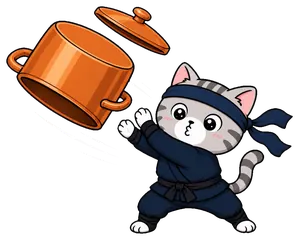
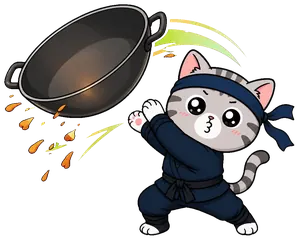
介面小修一批：狀態列（忍具格分色＋空格看得見＋宗師鎖格、代碼改小按鈕）、橘貓老闆面向右、三花貓文案、甩鍋術換炒鍋、地圖走過的路加亮
- 狀態列與戰鬥忍具列：秘寶維持羊皮紙暖色、忍具改藍底；空格淡藍亮虛線；至少畫 3 格，宗師起少的那格畫 🔒（提示說明），忍具袋／九命鈴多的格照實畫
- 本局代碼：13 位數字改成「📋 代碼」小按鈕（滑上去看完整代碼、點一下複製；剪貼簿不能用時把整串印出來讓人選），結算畫面照舊整串；不再當「擠不下就縮」的安全閥
- 橘貓老闆立繪用獨立 scale 屬性左右翻面，面向貨架與對白
- 賣藥的三花貓：正文「藥水瓶跟忍具」、選項「買兩個隨機忍具（花費 25 條小魚乾）」「買祖傳的藥水（最大生命值 +12，花費 60 條小魚乾）」、結果句講「忍具」
- 甩鍋術牌面：銅湯鍋改黑鐵炒鍋（Codex 重畫，舊圖備份 .舊銅鍋）；只換這一張，產線整批重編的其他 196 張已還原（WebP 編碼不穩定，不能整批進倉）
- 地圖：走過的路 3→5.5 像素、透明度 .78→.97、光暈加強；打過的格子 .55→.72（使用者回報「走過的路不會亮」；程式與存檔都查過沒壞，是太淡）
- 提示框附註跳過「保留」（守護符文案撞牌面關鍵字）
- 唯讀稽核 docs/審查報告/程式稽核_2026-09-06_介面小修.md：高 0 中 3 低 3，中全修（含戰鬥忍具列同步鎖格）；地圖加亮是稽核後加的

diff --git a/src/ui/hud.ts b/src/ui/hud.ts
@@ -75,15 +75,19 @@ export function renderHud(app: App, root: HTMLElement, fishDelta = 0): HTMLEleme
   }
 
   const potions = el('div', { class: 'hud-potions' });
-  for (let i = 0; i < potionCapacity(run); i++) {   // 格數隨難度與忍具袋變
-    const id = run.potions[i];
+  // 格數隨難度與忍具袋變（見習～高手 3、宗師起 2、忍具袋 +1、九命鈴 +2）。畫面上至少畫 3 格：
+  // 宗師起少掉的那一格畫成鎖住的格子而不是消失，格數才不會一局兩格一局三格（使用者 2026-09-06）
+  const cap = potionCapacity(run);
+  for (let i = 0; i < Math.max(cap, 3); i++) {
+    const locked = i >= cap;
+    const id = locked ? undefined : run.potions[i];
     const p = id ? potionById[id] : undefined;
-    const slot = el('div', { class: `hud-potion${p ? '' : ' empty'}` });
-    // 提示只掛在有東西的格子上：空格掛了也只會跳出一個沒內容的框，反而讓人以為那格有東西。
+    const slot = el('div', { class: `hud-potion${p ? '' : locked ? ' locked' : ' empty'}` }, locked ? '🔒' : '');
+    // 提示只掛在有東西或鎖住的格子上：空格掛了也只會跳出一個沒內容的框，反而讓人以為那格有東西。
     if (id && p) {
       slot.append(el('img', { src: artUrl('icons', p.art), alt: p.name }));
       attachTextTooltip(slot, p.name, p.text);
-    }
+    } else if (locked) attachTextTooltip(slot, '這一格鎖住了', '宗師以上只能帶兩支忍具；拿到忍具袋或九命鈴會多出格子。');
     potions.append(slot);
   }
 
@@ -148,19 +152,24 @@ function diffBadge(run: RunState): HTMLElement | string {
   return node;
 }
 
-export function seedTag(seed: string): HTMLElement {
-  const node = el('button', { class: 'hud-seed seed-copy' }, `本局代碼 ${seed} ⧉`);
-  node.title = '點一下複製代碼';
+export function seedTag(seed: string, full = false): HTMLElement {
+  // 十三位數字整條印在狀態列太佔位（使用者 2026-09-06）：狀態列做成跟「圖鑑」一樣的小按鈕，
+  // 完整代碼滑上去看、點一下複製；結算畫面（full）空間夠，照舊整串印出來
+  const label = full ? `本局代碼 ${seed} ⧉` : '📋 代碼';
+  const node = el('button', { class: full ? 'hud-seed seed-copy' : 'btn small hud-seed seed-copy' }, label);
+  attachTextTooltip(node, `本局代碼 ${seed}`, '點一下複製，貼到標題畫面的「本局代碼」就能重玩同一局。');
   node.addEventListener('click', () => {
     const done = (): void => {
       play('click');
       node.textContent = '已複製！';
-      window.setTimeout(() => { node.textContent = `本局代碼 ${seed} ⧉`; }, 1200);
+      window.setTimeout(() => { node.textContent = label; }, 1200);
     };
+    // 剪貼簿不能用時把整串代碼印出來讓人自己選：這時候按鈕上本來只有「代碼」兩個字
+    const fallback = (): void => { node.textContent = seed; selectFallback(node); };
     try {
-      void navigator.clipboard.writeText(seed).then(done, () => selectFallback(node));
+      void navigator.clipboard.writeText(seed).then(done, fallback);
     } catch {
-      selectFallback(node);
+      fallback();
     }
   });
   return node;

diff --git a/src/ui/styles/components.css b/src/ui/styles/components.css
@@ -95,14 +95,28 @@
 .hud-potion {
   width: 32px;
   height: 32px;
-  border-radius: 6px;
+  border-radius: 10px;
+  /* 忍具格跟秘寶格底色分開（使用者 2026-09-06：兩種東西同一個底色分不出來）：
+     秘寶維持羊皮紙暖色，忍具改冷色藍底＋深藍框，圖示照樣清楚 */
+  background: linear-gradient(#eef4ff, #cad9f2);
+  border: 1.5px solid #2b3f66;
+  box-shadow: inset 0 -2px 3px #2b3f6640, inset 0 1px 0 #fff, 0 1px 0 #ffffff26;
 }
-/* 空格子維持深色虛線：「這格是空的」跟「這格有東西」要一眼分得開 */
+/* 空格子：淡藍底＋亮虛線，在深色狀態列上看得到（原本深底暗虛線幾乎隱形，使用者 2026-09-06）；
+   「這格是空的」跟「這格有東西」仍一眼分得開 */
 .hud-potion.empty {
-  background: #00000047;
-  border: 1px dashed rgba(255, 255, 255, .45);
-  box-shadow: inset 0 1px 3px #0000008a;
+  background: #cad9f24d;
+  border: 1.5px dashed rgba(220, 232, 255, .85);
+  box-shadow: inset 0 1px 3px #00000066;
   box-sizing: border-box;
+}
+/* 鎖住的格子（宗師以上少一格）：跟空格同一個框，中間一個鎖頭，不讓格數忽多忽少 */
+.hud-potion.locked {
+  background: #00000059;
+  border: 1.5px dashed rgba(220, 232, 255, .45);
+  box-sizing: border-box;
+  display: flex; align-items: center; justify-content: center;
+  font-size: 15px; line-height: 1; opacity: .8;
 }
 .hud-potion.usable { cursor: pointer; }
 /* 音效開關固定在最右邊；本局代碼原本靠 margin-left:auto 推到底，
@@ -144,6 +158,9 @@
 /* 小魚乾的數字也給描邊，壓在木紋上才讀得清楚 */
 .hud-fish span { text-shadow: 0 1px 2px #000000a6; }
 .hud-seed { text-shadow: 0 1px 2px #00000080; }
+/* 狀態列上的代碼按鈕：跟「圖鑑」同一款小按鈕，不再是一行淡字 */
+/* flex-shrink 0：它不再是「擠不下就縮」的安全閥（overflow: visible 會讓 ellipsis 失效，縮了反而蓋到旁邊；稽核 2026-09-06 介面 中-3） */
+.hud .hud-seed.btn { opacity: 1; font-size: inherit; text-shadow: none; overflow: visible; flex: 0 0 auto; }
 
 /* ===== 疊層視窗（牌組檢視、挑牌） ===== */
 .modal-overlay {

diff --git a/src/ui/screens/combat.ts b/src/ui/screens/combat.ts
@@ -613,11 +613,15 @@ registerScreen('combat', (app, root, props) => {
     attachTooltip(energy, '飯糰');
 
     const potions = el('div', { class: 'potions' });
-    for (let i = 0; i < potionCapacity(run); i++) {   // 格數隨難度與忍具袋變
-      const id = cs.potions[i];
+    // 格數隨難度與忍具袋變；跟狀態列同一套：至少畫 3 格，宗師起少掉的那格畫成鎖住（稽核 2026-09-06 介面 中-2）
+    const cap = potionCapacity(run);
+    for (let i = 0; i < Math.max(cap, 3); i++) {
+      const locked = i >= cap;
+      const id = locked ? undefined : cs.potions[i];
       const def = id ? potionById[id] : undefined;
-      const slot = el('div', { class: `potion${def ? '' : ' empty'}` });
-      // 提示只掛在有忍具的格子上：空格跳出一個沒內容的框，反而讓人以為那格有東西。
+      const slot = el('div', { class: `potion${def ? '' : locked ? ' locked' : ' empty'}` }, locked ? '🔒' : '');
+      if (locked) attachTextTooltip(slot, '這一格鎖住了', '宗師以上只能帶兩支忍具；拿到忍具袋或九命鈴會多出格子。');
+      // 提示只掛在有忍具或鎖住的格子上：空格跳出一個沒內容的框，反而讓人以為那格有東西。
       if (id && def) {
         const url = artUrl('icons', def.art);
         slot.append(isFallback(url) ? el('b', {}, def.name) : el('img', { src: url, alt: def.name }));

diff --git a/src/ui/styles/map.css b/src/ui/styles/map.css
@@ -68,9 +68,11 @@
      32 段路徑每一幀都要重新描一次；方向感改由腳印依序亮起來表達，
      那個動的是 opacity，走合成器，便宜很多，也比較像真的有人在走。 */
 }
+/* 走過的路：加粗、加亮（使用者 2026-09-06：「走過的路不會亮」——3 像素、七成八透明的線在深色背景上太淡） */
 .map-edges path.walked {
-  stroke: rgba(255, 224, 150, .78);
-  filter: drop-shadow(0 0 4px rgba(255, 211, 92, .5));
+  stroke: rgba(255, 230, 160, .97);
+  stroke-width: 5.5;
+  filter: drop-shadow(0 0 5px rgba(255, 211, 92, .85)) drop-shadow(0 0 12px rgba(255, 190, 70, .45));
 }
 /* 腳印一顆一顆依序亮，像有人正踩著這條路往上走。
    每顆的起跑時間差 0.16 秒（在 map.ts 用負的 animation-delay 設），
@@ -123,7 +125,7 @@
 }
 .map-node.past { opacity: .3; filter: grayscale(.75) drop-shadow(0 0 2px rgba(0, 0, 0, .8)); }
 /* 打完的格子（足跡上）：比其他舊樓層清楚一點，右上角蓋一顆勾勾章＝「這格辦完了」 */
-.map-node.cleared { opacity: .55; filter: grayscale(.35) drop-shadow(0 0 2px rgba(0, 0, 0, .8)); }
+.map-node.cleared { opacity: .72; filter: grayscale(.2) drop-shadow(0 0 3px rgba(255, 211, 92, .45)); }   /* .55→.72：打過的格子要看得出來（使用者 2026-09-06） */
 .map-node.cleared::after {
   content: '✓';
   position: absolute;

diff --git a/src/content/events.ts b/src/content/events.ts
@@ -135,10 +135,10 @@ export const events: EventDef[] = [
     ] },
 
   { id: 'medicine_cat', title: '賣藥的三花貓',
-    text: '一隻三花貓在牆邊擺了個小攤，攤上排著幾個瓶子。「不保證有效，但一定有反應。」',
+    text: '一隻三花貓在牆邊擺了個小攤，攤上排著幾個藥水瓶跟忍具。「不保證有效，但一定有反應。」',
     choices: [
-      { label: '買一瓶（25 條小魚乾，拿兩支忍具）', costFish: 25, outcome: [{ kind: 'potions', n: 2 }], result: '三花貓收了錢，塞了兩個瓶子給球球。' },
-      { label: '買祖傳的（60 條小魚乾，最大生命 +12）', costFish: 60, outcome: [{ kind: 'maxHp', n: 12 }], result: '球球喝下去，覺得身體暖暖的。' },
+      { label: '買兩個隨機忍具（花費 25 條小魚乾）', costFish: 25, outcome: [{ kind: 'potions', n: 2 }], result: '三花貓收了錢，隨手抓了兩個忍具塞給球球。' },   // 文案照使用者 2026-09-06（結果句也講「忍具」，不再講「瓶子」）
+      { label: '買祖傳的藥水（最大生命值 +12，花費 60 條小魚乾）', costFish: 60, outcome: [{ kind: 'maxHp', n: 12 }], result: '球球喝下去，覺得身體暖暖的。' },
       { label: '不買', outcome: [], result: '三花貓聳聳肩。' },
     ] },
 

diff --git a/src/ui/tooltip.ts b/src/ui/tooltip.ts
@@ -15,7 +15,8 @@ let tip: HTMLElement | null = null;
  * 意圖寫「給你 2 層炸毛、1 層翻肚」、藥水寫「給目標 2 層翻肚」，玩家滑上去卻看不到翻肚是什麼（使用者 2026-09-06）。
  * 提示框裡不再套一層提示（滑不進去），直接把說明寫進來。太常見、解釋了只是噪音的詞跳過；最多補三個。
  */
-const APPENDIX_SKIP = new Set(['飽足', '飯糰', '防禦', '蜷縮', '小魚乾', '本局代碼', '秘寶', '忍具', '罐頭鋪', '貓窩', '紙箱', '大魔物', '塔主', '魔氣暴走', '叼著小魚乾']);
+// 「保留」也跳過：它是牌面關鍵字，但守護符的說明把它當白話動詞用（「最多保留 8 點蜷縮」），自動展開會講錯東西（稽核 2026-09-06 介面 中-1）
+const APPENDIX_SKIP = new Set(['飽足', '飯糰', '防禦', '蜷縮', '小魚乾', '本局代碼', '秘寶', '忍具', '罐頭鋪', '貓窩', '紙箱', '大魔物', '塔主', '魔氣暴走', '叼著小魚乾', '保留']);
 function glossaryLines(body: string, skip: string): HTMLElement[] {
   const seen: string[] = [];
   for (const m of body.matchAll(RE)) {

diff --git a/src/ui/styles/screens.css b/src/ui/styles/screens.css
@@ -700,6 +700,9 @@
 .scene-art:has(.scene-goods) { left: calc(50% + 96px); top: 10px; max-height: none; }
 .scene-goods { transform: scale(.9); transform-origin: top center; max-height: none; overflow: visible; }
 .scene:has(.scene-goods) .scene-portrait { height: 290px; bottom: 140px; left: 24px; }
+/* 橘貓老闆的立繪原圖面向左、背對貨架與對白；左右翻過來面向右邊（使用者 2026-09-06）。
+   用獨立的 scale 屬性，才不會被 portrait-in 進場動畫的 transform 蓋掉 */
+#stage[data-screen="shop"] .scene-portrait { scale: -1 1; }
 /* 紙箱：秘寶的圖放大立在中上（圖示原檔夠大，放到 200 還清楚），輕輕上下浮 */
 .scene-art img.chest-loot { height: 200px; width: auto; filter: drop-shadow(0 12px 18px #000000b3); animation: loot-float 2.6s ease-in-out infinite; }
 /* 秘寶圖上下直接寫字（不用木牌）：上面是效果那句話、下面是「秘寶」小標＋名字 */

diff --git a/src/ui/screens/result.ts b/src/ui/screens/result.ts
@@ -48,7 +48,7 @@ registerScreen('result', (app, root) => {
     extra: [
       el('div', { class: 'result-stats' },
         `到達 ${run.floor}F　打倒 ${run.stats.kills} 隻魔物　打了 ${run.stats.turns} 回合　出了 ${run.stats.cardsPlayed} 張牌　牌組 ${run.deck.length} 張`),
-      el('div', { class: 'result-row' }, relics, seedTag(run.seed)),
+      el('div', { class: 'result-row' }, relics, seedTag(run.seed, true)),
       el('div', { class: 'result-best' }, `最佳成績：${best.floor}F${best.won ? `（通關，${best.turns} 回合）` : ''}`),
     ],
     actions: [

diff --git a/src/ui/styles/combat.css b/src/ui/styles/combat.css
@@ -346,6 +346,7 @@
   background: rgba(0, 0, 0, .35);
 }
 .combat .potion.empty { border: 2px dashed rgba(255, 255, 255, .35); background: none; }
+.combat .potion.locked { border: 2px dashed rgba(255, 255, 255, .2); background: #00000040; display: flex; align-items: center; justify-content: center; font-size: 18px; opacity: .75; }
 .combat .potion img { width: 42px; height: 42px; }
 .combat .potion b { font-size: 11px; line-height: 1.1; }
 .combat .potion.usable { cursor: pointer; box-shadow: 0 0 0 2px #ffd35c; }

diff --git a/docs/審查報告/程式稽核_2026-09-06_介面小修.md b/docs/審查報告/程式稽核_2026-09-06_介面小修.md
@@ -1,0 +1,163 @@
+# 程式稽核 2026-09-06：介面小修（提示框名詞說明／事件升級確認／手牌閃爍／賣藥貓文案／老闆立繪翻面／忍具格改版／代碼按鈕化）
+
+## 範圍說明（跟原始指示有一處對不上，先講清楚）
+
+指示原文說「審查對象：工作樹相對 HEAD 的未提交差異」，但實際跑 `git status`／`git diff -- src tests` 之後發現：**七項裡的前三項（提示框補名詞說明 `src/ui/tooltip.ts`＋`src/ui/styles/base.css`、事件升級加確認 `src/ui/screens/event.ts`、手牌閃爍修正 `src/ui/styles/combat.css`）其實已經提交在 HEAD（commit `25c99f7`）裡，不在工作樹的未提交差異中**；真正未提交的只有第 4～7 項（`src/content/events.ts`、`src/ui/hud.ts`、`src/ui/screens/result.ts`、`src/ui/styles/components.css`、`src/ui/styles/screens.css`）。
+
+會回頭審前三項，是因為 `25c99f7` 自己的提交說明與 `docs/審查報告/程式稽核_2026-09-06_第二輪平衡與字體.md` 第 9 行都白紙黑字寫著：這三處是上一次稽核**收尾之後才加進去**的，「未經代理稽核，瀏覽器實測過」。所以本報告等於是把上一次稽核漏掉的這三處，加上這一批新的四處，一次審完——七項全部涵蓋，只是前三項的「差異」要拿 `git diff ec0d6a4 25c99f7 -- <檔案>` 才看得到，不是工作樹的 `git diff`。這不是程式問題，是流程上的時間差，附帶說明一下。
+
+## 審查方式
+
+唯讀，沒有改動任何檔案（本報告除外）。實跑 `npx tsc --noEmit`（乾淨、離開碼 0）與 `npx vitest run`（77 檔、486 測全過，沒有遇到 `assets_nonempty.test.ts` 誤紅的情形）。實際打開核對的檔案含 `tooltip.ts`、`glossary.ts`、`potions.ts`、`relics.ts`、`cardtext.ts`、`cards.ts`、`hud.ts`、`screens/combat.ts`、`confirm.ts`、`overlay.ts`、`app.ts`、`deckview.ts`、`screens/event.ts`、`content/difficulty.ts`、`screens/result.ts`、`content/events.ts`、`combat.css`、`screens.css`、`components.css`、`base.css`、`events.test.ts`、`glossary.test.ts`、`engine/save.ts`、`engine/run.ts`、`docs/設計總覽.md`，超過 20 處。
+
+## 結論
+
+**高 0 條、中 3 條、低 3 條。**
+
+---
+
+## 高
+
+無。
+
+特別排查過以下幾種「高」等級的可能，都沒有踩到：
+
+- 事件升級確認開著時，底下的 `#screen` 有沒有東西還能被點到——沒有：`lockScreen()`（`src/ui/overlay.ts:34-37`）把 `#screen` 整個標成 `inert`，HUD 是 `renderHud(app, root)` 畫進 `#screen` 裡的（`src/ui/app.ts:96`），連同狀態列的按鈕一起被鎖住；而且 `panel(resultText, null, '', ...)`（`src/ui/screens/event.ts:213`）傳的 `button` 是空字串，`actions` 直接是空陣列，連舊選項的按鈕都沒有留著。
+- 挑牌疊層 `dismiss()` 會先 `unlockScreen()` 才呼叫 `onPick`（`src/ui/deckview.ts:81-88`），中間有一瞬間 `locks` 會變 0——但 `onPick` 裡緊接著同步呼叫 `showUpgradeConfirm()` 又同步 `lockScreen()`（`src/ui/confirm.ts:62`），整段是同一輪 JS 執行、瀏覽器沒有機會插進一次繪圖或使用者輸入，這個「瞬間解鎖」不是真的能被點到的空檔。
+- `run.potions` 長度會不會超過忍具格上限、讓舊資料被誤刪——不會：`addPotion`（`src/engine/run.ts:284-286`）在寫入前就擋住超過 `potionCapacity(run)` 的情況，`replacePotion` 只覆寫既有索引不會加長陣列，而且全庫沒有任何地方會把秘寶從 `run.relics` 移除（`git grep` 只找到不相關的 `relics.filter`），難度對忍具格數的公式 (`src/content/difficulty.ts:54`) 從加入以來也沒改過——所以「畫面漏畫已存在的忍具」這個情境目前沒有路徑可以真的發生。
+
+---
+
+## 中
+
+### 中-1　名詞表附註誤解讀「保留」，守護符的說明會被錯誤地多寫一行
+
+`src/ui/tooltip.ts:18`（`APPENDIX_SKIP` 清單）對上 `src/content/relics.ts:71`
+
+守護符的說明是「回合結束時**最多保留** 8 點蜷縮到下一回合。」——這裡的「保留」是白話動詞（留著），但名詞表裡剛好也有一個叫「保留」的**牌面關鍵字**（`src/content/glossary.ts:50`：「回合結束時這張牌留在手上，不會被棄掉。」）。`glossaryLines()`（`tooltip.ts:19-28`）不管詞性、只做字串比對，「保留」沒有被排進 `APPENDIX_SKIP`，於是玩家把滑鼠移到守護符上，會在說明底下多看到一行「保留：回合結束時這張牌留在手上，不會被棄掉。」——講的是完全不相關的牌面規則，會誤導玩家以為守護符跟手牌有關。這條路徑在狀態列（`src/ui/hud.ts:73`）跟結算畫面（`src/ui/screens/result.ts:35`）都會重現，不是單一畫面的偶發狀況。
+
+其他同類型的詞（消耗、看破、破功、定身、反彈……）逐一查過秘寶跟忍具全部 78 筆文字，只有這一處撞名；`iron_sand_vest`（`relics.ts:87`）講同一件事卻用「留」不用「保留」，剛好閃過這個坑，側面說明這是措辭巧合，不是刻意設計。
+
+修法：把 `保留` 加進 `APPENDIX_SKIP`（跟已經在清單裡的「防禦」「蜷縮」同一類——太容易在白話句子裡被借用的常見字，不適合自動展開）；或者把 `guard_charm`／`iron_sand_vest` 的文案統一改成「留」，繞開這個字。
+
+### 中-2　忍具鎖格只修了看不到的狀態列，戰鬥中真正在用的那排忍具沒有跟著改
+
+`src/ui/screens/combat.ts:616`
+
+這批的目標是「格數不要一局兩格一局三格」，但 `src/ui/hud.ts` 的忍具格**在戰鬥中是被 CSS 藏起來的**（`hud.ts:16-19` 自己的註解就寫「戰鬥中這一列的生命與忍具兩格是用 CSS 隱藏的」）。玩家在戰鬥裡真正看得到、也會點下去用忍具的，是 `src/ui/screens/combat.ts` 另外一份獨立實作的忍具列（`combat.ts:615-630`），這份完全沒有改：迴圈仍然是 `for (let i = 0; i < potionCapacity(run); i++)`，宗師難度以上一樣只畫 2 格、忍具袋／九命鈴一樣照實加格，沒有「至少畫 3 格＋鎖格」的處理。
+
+也就是說，玩家最常遇到「這局忍具格怎麼變少了」的場合（戰鬥中，決定要不要按下忍具的當下），這批修改完全沒有觸及；真正被修到的狀態列忍具格，玩家反而只有在戰鬥外（地圖、事件、商店……）才看得到。這不會導致按錯或用不到忍具（`combat.ts:627` 的點擊只掛在真的有忍具的格子上，邏輯本身沒壞），純粹是這批想解決的「格數忽多忽少」體驗問題，在最關鍵的畫面上還在。
+
+修法：把 `hud.ts:80-92` 那段「`Math.max(cap, 3)` ＋鎖格」的邏輯搬一份到 `combat.ts:616` 的迴圈，資料來源換成 `cs.potions[i]`（戰鬥中的即時值，而不是 `run.potions`），鎖格沿用 `.hud-potion.locked` 的做法或另開一個 `.potion.locked` 樣式。
+
+### 中-3　狀態列代碼改成按鈕之後，「空間不夠就縮」的安全機制被自己蓋掉了
+
+`src/ui/styles/components.css:162` 對上 `:557-559`
+
+狀態列本來就有一條專門處理「東西放不下」的規則（`components.css:557-559`）：
+
+```
+/* 頂列的鈕與數字一律不折行、不被壓扁——空間不夠時由「本局代碼」那格負責縮 */
+.hud .btn, .hud-floor, .hud-fish, .hud-relics, .hud-potions { white-space: nowrap; flex: none; }
+.hud .hud-seed { min-width: 0; flex: 0 1 auto; overflow: hidden; text-overflow: ellipsis; white-space: nowrap; }
+```
+
+設計是「所有按鈕與數字都不准縮，只有代碼那一格可以被擠小、擠不下就用刪節號」。問題是新的代碼按鈕**同時符合兩條規則**：它有 `.btn`，也有 `.hud-seed`。這兩條選擇器的優先度（specificity）相同，寫在後面的 `:559` 蓋過 `:558`，所以 `flex: 0 1 auto`（可以縮）確實贏了、沒有變成完全不能縮，這部分沒問題；但這批另外加的 `:162`：
+
+```
+.hud .hud-seed.btn { opacity: 1; font-size: inherit; text-shadow: none; overflow: visible; }
+```
+
+選擇器多一個 class、優先度更高，把 `overflow` 從 `hidden` 蓋成 `visible`。而 `text-overflow: ellipsis` 依 CSS 規格**只有在 `overflow` 不是 `visible` 時才有作用**——換句話說，`:559` 準備好的「擠不下就顯示…」這條退路，被 `:162` 悄悄關掉了。等於現在的代碼按鈕「可以被擠縮」但「擠縮時不會乾淨地截斷」，超出的內容會直接蓋到旁邊的音樂／音量／音效控制項上，而不是像設計原意那樣安分地縮小。
+
+這不是憑空的邊界狀況：秘寶格 `.hud-relics`（`components.css:82`）沒有數量上限，`for (const id of run.relics)` 整局收到幾件就畫幾件（`hud.ts:64`），一輪破關前段累積十件以上秘寶並不罕見。粗抓一輪典型狀態列寬度（樓層 ~60、血條 220、小魚乾 ~75、8 件秘寶 ~322、忍具 3 格 108、牌組鈕 ~105、圖鑑鈕 ~80、代碼鈕(新) ~80、音樂/音量/音效 ~228、11 個間距 110）粗估已經逼近甚至超過狀態列可用寬度（1280 − 左右內距 28 ＝ 1252px）——這只是粗算示意（文字寬度沒有拿實際字型量過，跟上一份稽核算牌面字體用的精確度不能比），但方向很清楚：代碼按鈕一旦真的被擠縮，現在的退路是「文字溢出蓋到別的按鈕」而不是「乾淨顯示省略號」。
+
+值得一提：舊版代碼是純文字「本局代碼 1788671234567 ⧉」（13 位數字），比新的「📋 代碼」明顯長，所以這批改動本身**降低了**觸發擠壓的機率；只是一旦真的被擠到，失敗的樣子比以前難看。
+
+修法：`:162` 那條加一行 `flex-shrink: 0`（或整條改成 `flex: 0 0 auto`），讓代碼按鈕跟其他按鈕一樣「不縮」，不要再指望它當安全閥——反正這批的初衷就是让代碼佔的空間變小，不縮也應該放得下；真的放不下時，情願讓別的東西（例如秘寶格）換成可以橫向捲動或超過一定數量就摺疊，而不是靠代碼按鈕犧牲。
+
+---
+
+## 低
+
+### 低-1　設計文件仍寫「忍具最多帶 3 支」，跟這批做的鎖格 UI 對不上
+
+`docs/設計總覽.md:60`
+
+這行字從難度系統與忍具袋／九命鈴上線時（至少 2026-09-02）就沒更新過，不是這批新產生的問題，但這批新加的鎖格說明文字（`宗師以上只能帶兩支忍具；拿到忍具袋或九命鈴會多出格子`，`hud.ts:90`）等於是把「其實是 2～6 支，不是固定 3 支」講得更明白，跟文件正面矛盾的地方也更明顯了。
+
+修法：`docs/設計總覽.md:60` 改成「忍具依難度 2～3 支起，忍具袋 +1、九命鈴 +2」，或直接寫「見 `potionCapacity()`」不寫死數字。
+
+### 低-2　`tests/content/events.test.ts` 沒有釘住這次改的選項文字或費用數字
+
+`tests/content/events.test.ts`（全檔）
+
+實際核對過：`買兩個隨機忍具（花費 25 條小魚乾）` 對 `costFish: 25`、`買祖傳的藥水（最大生命值 +12，花費 60 條小魚乾）` 對 `costFish: 60` 與 `{ kind: 'maxHp', n: 12 }`，**這次改的數字跟標籤文字都一致，沒有錯**。但整份測試只驗證「花費一定 >0」「結果句不是空的」「引用的牌/遭遇存在」這種結構性檢查，沒有任何一條釘住 `medicine_cat`（或其他事件）的標籤原文或費用數字，全庫也找不到第二處測試在管這件事。以後有人改動費用或文案時，即使把標籤跟 `costFish` 改到兜不起來，測試也不會紅。
+
+修法：不用每個事件都寫，但至少幫容易改壞的「文案數字跟欄位數字要對得上」寫一條通用檢查，比如用正規表達式抓標籤裡的數字跟 `costFish` 比對（多數事件標籤都嵌了「N 條小魚乾」這種字樣）。
+
+### 低-3　老闆立繪翻面後，進場滑入的方向可能跟著鏡射反過來（影響很小、幾乎看不出來）
+
+`src/ui/styles/screens.css:705` 對上 `src/ui/styles/base.css:188-190`
+
+`portrait-in` 的 keyframe 只動 `transform`（`translateX(-22px) scale(.96)`）跟 `opacity`（`base.css:188-190`），確認沒有動獨立的 `scale` 屬性，所以商店這條 `scale: -1 1`（`screens.css:705`）不會被進場動畫蓋掉——這點原本的顧慮是多餘的，翻面本身沒問題。
+
+但兩個獨立屬性疊加時的套用順序是「先套 `transform`，再套 `scale`」，商店的立繪進場那 260 毫秒，`translateX(-22px)` 是在鏡射**之前**套用的位移，鏡射會把這個位移的方向也一起翻過來——**可能**造成商店老闆滑入畫面的方向跟其他畫面（貓窩、事件都是從左滑入）相反，變成從右邊滑入。這純粹是 260 毫秒進場動畫的方向細節，跟老闆立繪定住不動之後的最終位置、陰影完全無關（陰影是 `0 8px 16px`，水平位移 0，鏡射不影響），也沒有測試或畫面驗收能百分之百確認觀感——標成「可能」是因為多層 `transform`/`scale`/`transform-origin` 疊加的實際渲染順序沒有實機截圖比對，只靠規格書推導。
+
+修法：不影響功能，可以不用管；真的在意方向一致，可以把商店的進場動畫改成 `translateX(22px)`（正負號對調）單獨處理，或乾脆讓商店老闆跳過滑入動畫、直接淡入。
+
+---
+
+## 查過確認沒問題的
+
+**提示框補名詞說明（`src/ui/tooltip.ts`）**
+
+- 長詞排前面確實有效：`TERMS` 依字數由長到短排序再組進 `RE`（`tooltip.ts:6`），JS 正規表達式的 `|` 在同一個起始位置會照順序試、選第一個成功的，所以「下回合隱身」「下回合蜷縮」「不可打出」這種長詞會贏過裡面包含的短詞，不會被拆成一截一截——這套技巧本身沒問題。
+- `不可打出` 這個詞會被自己的定義重複解釋（`combat.ts:102` 的 `reason: '不可打出'` 本身就是這個詞，滑上去等於先看到裸詞、再看到解釋），但這是「補充說明」而不是「講錯」，效果是讓原本看不懂的裸詞多了解釋，屬於這批的正向作用，不算問題。
+- 藥水（`src/content/potions.ts` 全 20 筆）文字裡沒有出現「消耗」「保留」等會撞名的詞，這個具體情境目前不會發生（撞名的是秘寶守護符，已列中-1）。
+- 能力牌（`src/ui/screens/combat.ts:401` 那顆 `describeCard` 呼叫）目前不會印出「消耗。」「保留。」——`src/engine/types.ts:8` 定義的四個關鍵字裡，會被印成這兩句的牌全部檢查過，全庫沒有任何 `type: 能`（能力）牌帶 `消耗` 或 `保留` 關鍵字，這條路徑目前是死路，不會誤觸發（`cardtext.ts:191-192` 那兩行本身留著沒問題，只是暫時用不到）。
+- 難度說明（`hud.ts:151`／`content/difficulty.ts:11-17`）掃過五級文字，「忍具」「罐頭鋪」「大魔物」都在 `APPENDIX_SKIP` 名單裡，不會誤加說明。
+- 圖鑑疊層 `z-index:70` 對提示框新的 `z-index:100`（`base.css` 該行）：查過圖鑑的疊層宣告，100 確實比 70 高，提示框滑上去看得到，這個改動有達到目的。
+
+**事件升級加確認（`src/ui/screens/event.ts`）**
+
+- `showUpgradeConfirm` 開著時底下點不到東西：見「高」一節的說明，`inert` 鎖的是整個 `#screen`，HUD 按鈕跟舊選項都在裡面一起被鎖住。
+- `openPicker()` 用 `cancellable: false` 是延續原本就有的設定（這行在這批之前就是 `false`，不是新加的），跟貓窩磨爪（`src/ui/screens/rest.ts:65-66`，用的是 `cancellable: true`）刻意不同：事件裡選了「升級一張牌」這個結果就不能整個反悔，但可以透過「再看看」無限次換牌重選，直到真的按下「就磨這張」——這是原本就有的規矩，這批只是把「選完直接升級」改成「選完先看預覽再問一次」，沒有動到能不能整個放棄升級這件事。
+- `want > 1`（一次升兩張以上）跟移除牌兩條路都還是走 `onPickMany` / 直接 `settleCards`，不會經過新加的確認框——這點維持這批說明裡講的「原路」，沒有意外把確認框套到不該套的地方。
+
+**手牌起伏閃爍修正（`src/ui/styles/combat.css`）**
+
+- `will-change: transform` 與 `backface-visibility: hidden` 只加在 `.combat .hand .card`，範圍夠窄，不會波及圖鑑、牌組檢視、商店等別處的牌（那些各自用自己的選擇器）。
+- `card-idle` 動的是獨立的 `translate`／`rotate` 屬性、不是 `transform`（`combat.css:402-405` 的註解與寫法一致），跟扇形排版用的行內 `transform` 不衝突；`.dealt`（剛發到手上的牌）也會疊上同一顆 `card-idle`（`combat.css:637-639`），代表新加的兩行對所有起伏狀態都生效，沒有漏掉哪個階段。
+- 全庫沒有任何 `rotateY`／`perspective`／立體翻牌效果，`backface-visibility: hidden` 不會意外把哪張牌的背面藏起來。
+- 這項效果本質是瀏覽器算繪層級的行為（是否把文字重新描邊），純程式碼審查只能確認寫法合理、範圍正確，實際「還會不會閃」需要肉眼在瀏覽器裡看——`25c99f7` 的提交說明裡已經寫「瀏覽器實測過」，這點我沒有另外重新拿瀏覽器驗證。
+
+**賣藥的三花貓文案（`src/content/events.ts`）**
+
+- 新標籤「花費 25 條小魚乾」「花費 60 條小魚乾」跟 `costFish: 25`／`60` 兩兩對上，`outcome` 的 `maxHp: 12` 也跟標籤寫的「+12」一致。
+- 結果句從「塞了兩個瓶子」改成「隨手抓了兩個忍具塞給球球」，跟事件正文「藥水瓶跟忍具」的新措辭方向一致，不再單獨講「瓶子」。
+- `events.length === 35`、id 不重複、選項數 1～3、`result` 非空、「球球：「」」結尾要有喵——這五條結構性測試全部照跑，`medicine_cat` 沒有觸發任何一條的反例。
+
+**老闆立繪翻面（`src/ui/styles/screens.css`）**
+
+- `#stage[data-screen="shop"]` 這個選擇器確實有效：`ScreenName` 型別（`app.ts:20`）包含 `'shop'`，`App.show()` 會把 `this.stage.dataset['screen'] = name` 寫死（`app.ts:93`），商店畫面進場時一定會被標成 `shop`。
+- 翻面不影響版面位置：`left: 24px`（`screens.css:702`）決定的是元素的排版位置，`scale` 只是繪圖階段的鏡射，不會讓老闆的立繪跑到別的座標去。
+- 陰影方向沒問題：`filter: drop-shadow(0 8px 16px #000000a6)` 水平位移是 0，左右鏡射不會讓陰影跑到奇怪的方向。
+- 貓窩、事件等其他用 `sceneView` 的畫面：選擇器鎖了 `data-screen="shop"`，其他畫面的 `data-screen` 值不同，這條規則完全不會套用到它們身上；`shop.ts:33/135/137` 確認立繪就是普通 `<img class="scene-portrait">`，沒有另外的 inline transform 會打架。
+
+**忍具格分色與鎖格（`src/ui/hud.ts` ／ `src/ui/styles/components.css`）**
+
+- `run.potions` 長度不會超過目前的格數上限——見「高」一節的說明，`addPotion` 擋得住、沒有秘寶會被拿掉、難度公式沒改過，這條「舊存檔或秘寶又被拿走」的假設性風險目前沒有實際發生的路徑。
+- 鎖住的格子沒有被誤接上點擊：`hud.ts` 這份忍具格從頭到尾沒有掛任何 `addEventListener` 或 `usable` class（狀態列本來就是「畫出來給人看、按不動」，`hud.ts:16-19` 原本就有這句註解），鎖格只是多顯示一個鎖頭圖示跟說明，不會誤觸發使用忍具。
+- `components.css:121` 的 `.hud-potion.usable { cursor: pointer; }` 全庫沒有任何程式碼會替 `.hud-potion` 加上 `usable` class，是先前就存在、跟這批無關的死樣式，不影響本批功能。
+
+**代碼變按鈕（`src/ui/hud.ts` ／ `src/ui/screens/result.ts`）**
+
+- `selectFallback(node)`（`hud.ts:179-185`）用 `range.selectNodeContents(node)` 選取整個節點內容，跟節點當下的文字是「📋 代碼」還是完整代碼字串無關；程式碼本身在呼叫 `selectFallback` 之前就先把 `node.textContent` 換成完整代碼（`hud.ts:168`：`const fallback = () => { node.textContent = seed; selectFallback(node); }`），所以退路觸發時选取到的就是正确的完整代碼，這段沒問題。
+- 結算畫面 `seedTag(run.seed, true)`（`result.ts:51`）維持整串印出，樣式走 `.scene .result-row .hud-seed`（`screens.css:825/835`）這條跟 `.btn` 完全無關的舊規則，沒有受這批影響。
+- `docs/設計總覽.md` 全文搜尋「代碼」「種子」「seed」，沒有任何一句明確講「狀態列顯示完整代碼」之類會被這批打臉的敘述，這方面文件跟程式碼沒有衝突。
+
+**建置與測試**
+
+- `npx tsc --noEmit`：乾淨、無輸出、離開碼 0。
+- `npx vitest run`：77 個測試檔、486 條測試全部通過，沒有遇到指示裡提到的 `tools/assets_nonempty.test.ts` 因 0 位元組暫時性失敗的狀況。
